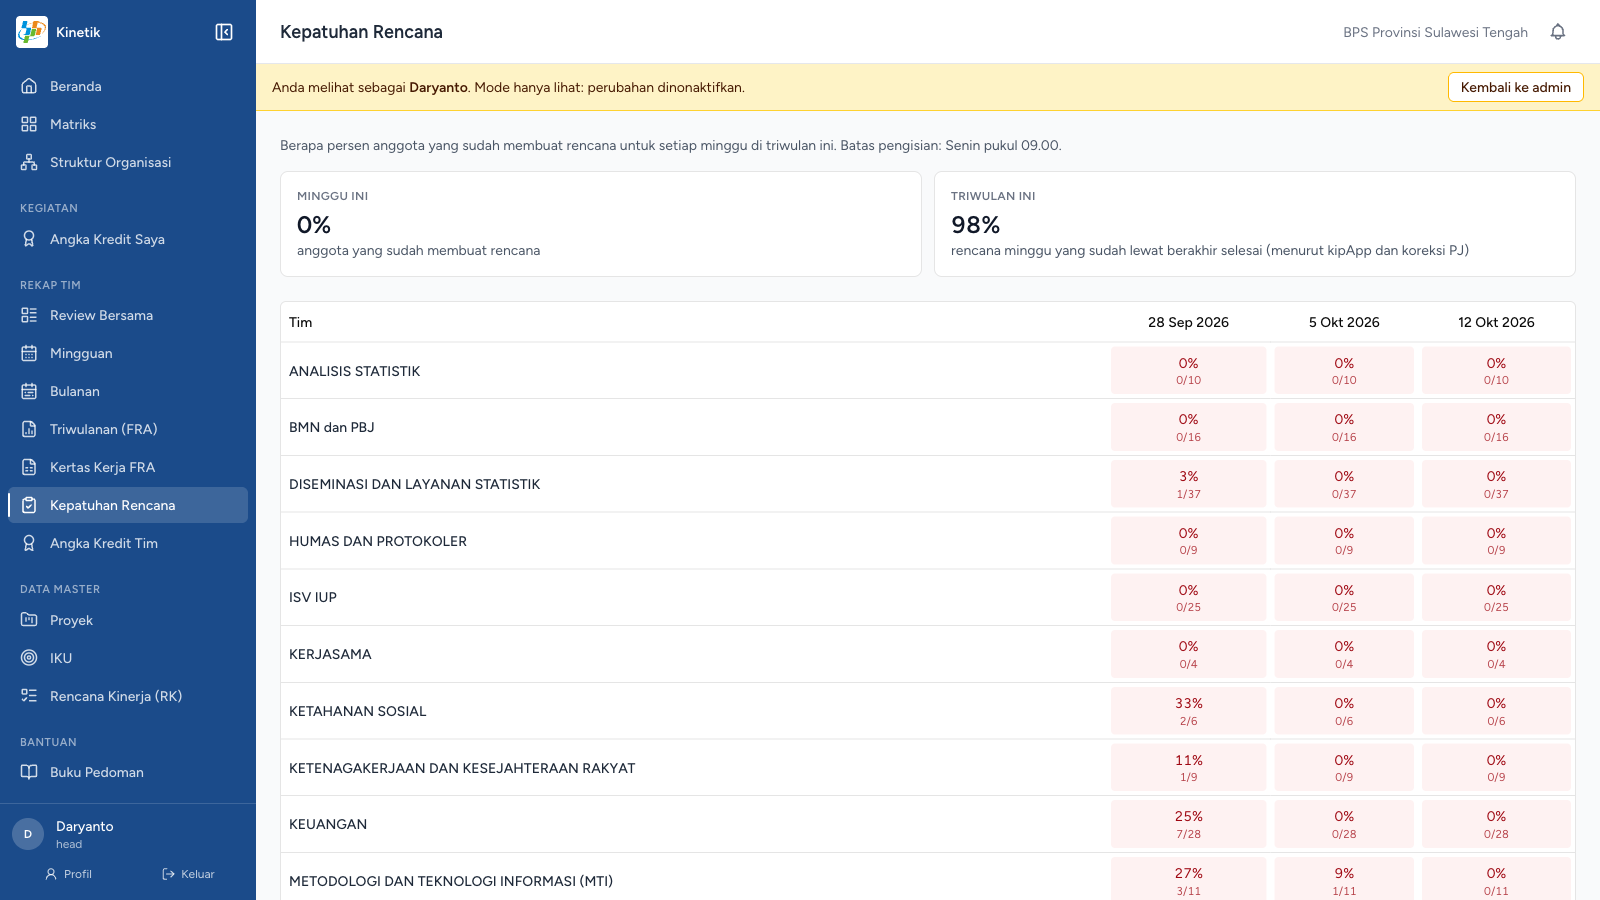
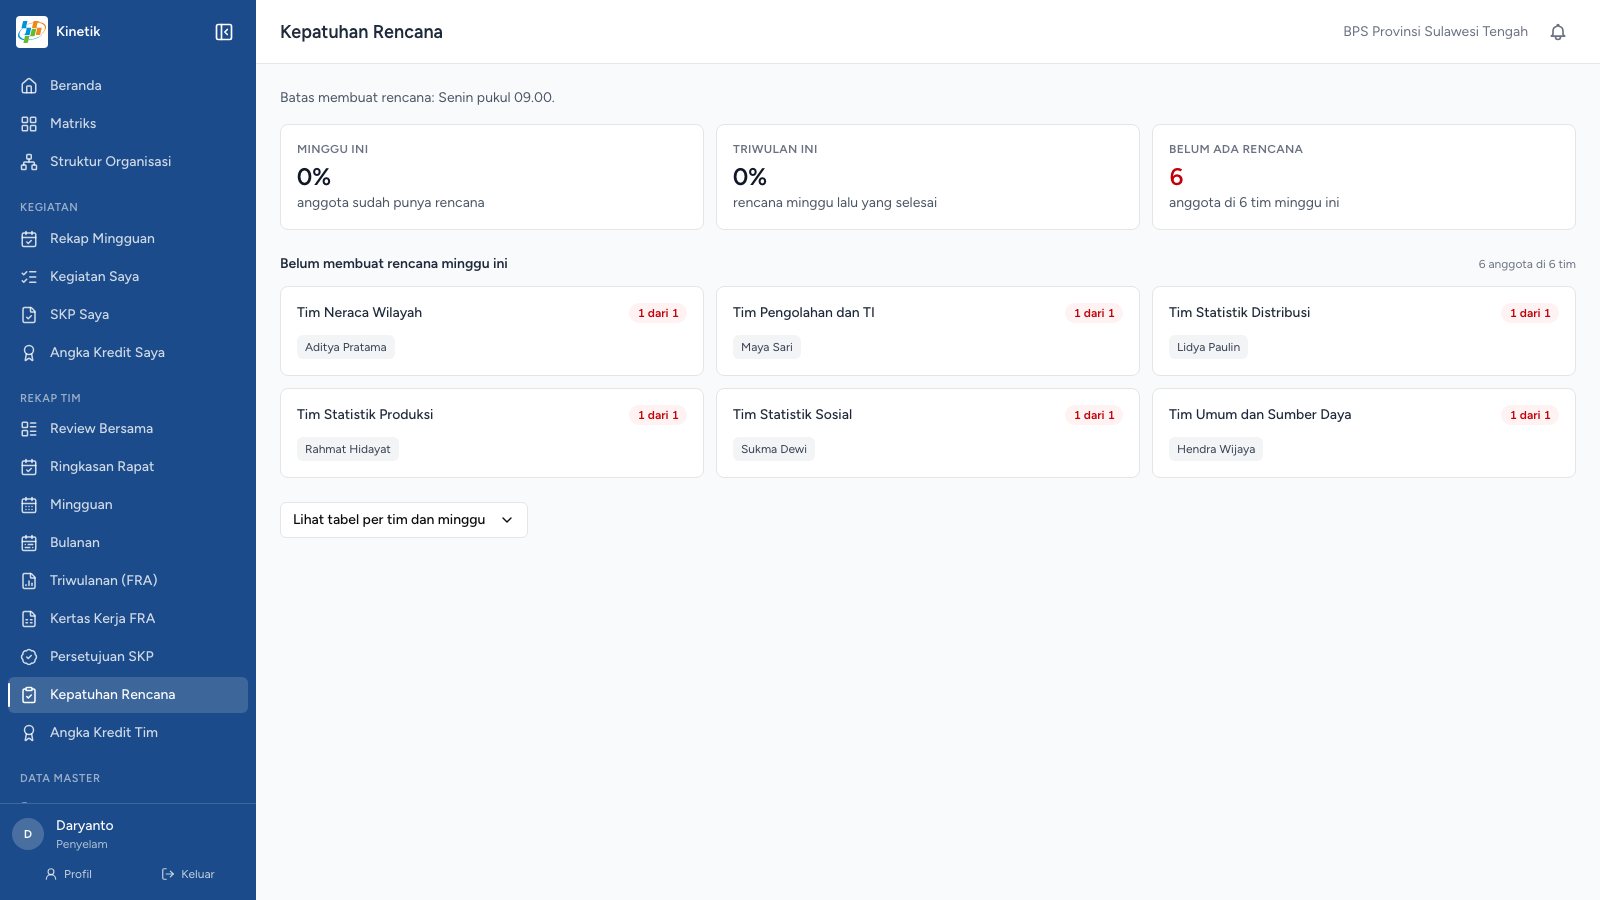
Deck: Review Bersama redesign, ringkasan rapat, Kepatuhan Rencana summary first

diff --git a/components/shotData.ts b/components/shotData.ts
@@ -120,31 +120,31 @@ export const shots: Record<string, ShotDef> = {
     },
     "head-compliance": {
         "src": "/shots/head-compliance.png",
+        "url": "kinetik.bpssulteng.id (contoh data)",
         "steps": [
-            {
-                "n": 1,
-                "x": 16,
-                "y": 16.2,
-                "text": "Batas pengisian rencana: Senin pukul 09.00."
-            },
-            {
-                "n": 2,
-                "x": 17.2,
-                "y": 25,
-                "text": "Minggu ini: berapa persen anggota yang sudah membuat rencana."
-            },
-            {
-                "n": 3,
-                "x": 58,
-                "y": 25,
-                "text": "Triwulan ini: berapa persen rencana minggu lalu yang berakhir selesai."
-            },
-            {
-                "n": 4,
-                "x": 68.5,
-                "y": 52.5,
-                "text": "Tiap tim, tiap minggu. Merah artinya belum ada rencana."
-            }
+            {"n": 1, "x": 30.6, "y": 19.4, "text": "Ringkasan dulu: rencana minggu ini, rencana triwulan, dan jumlah yang belum punya rencana."},
+            {"n": 2, "x": 25, "y": 29.2, "text": "Nama anggota yang belum membuat rencana, per tim."},
+            {"n": 3, "x": 25.2, "y": 57.8, "text": "Tabel lengkap per tim dan minggu tersembunyi sampai tombol ini ditekan."}
+        ]
+    },
+    "review-bersama": {
+        "src": "/shots/review-bersama.png",
+        "url": "kinetik.bpssulteng.id (contoh data)",
+        "steps": [
+            {"n": 1, "x": 26.6, "y": 17.9, "text": "Mingguan, bulanan, atau triwulanan, dengan panah untuk pindah periode."},
+            {"n": 2, "x": 18.8, "y": 27.8, "text": "Ringkasan kantor dalam satu deret angka."},
+            {"n": 3, "x": 43.4, "y": 41.4, "text": "Klik Capaian untuk mengurutkan dari tertinggi atau terendah."},
+            {"n": 4, "x": 85.5, "y": 46.4, "text": "Status capaian. Gembok berarti rekap sudah dikunci PJ."}
+        ]
+    },
+    "ringkasan-rapat": {
+        "src": "/shots/ringkasan-rapat.png",
+        "url": "kinetik.bpssulteng.id (contoh data)",
+        "steps": [
+            {"n": 1, "x": 31.3, "y": 21.1, "text": "Rekap mingguan terkunci, rekap bulanan terkunci, dan tim yang punya bukti rapat."},
+            {"n": 2, "x": 51.9, "y": 33.1, "text": "Terkunci: PJ sudah menyelesaikan rekap. Angka kecil adalah jumlah bukti rapat."},
+            {"n": 3, "x": 62.1, "y": 33.2, "text": "Ditulis: ada parafrase tetapi belum dikunci."},
+            {"n": 4, "x": 93, "y": 33.2, "text": "Rapat bulanan tiap tim."}
         ]
     },
     "head-overview": {

diff --git a/pages/23-pimpinan-1-4-kepatuhan-rencana.md b/pages/23-pimpinan-1-4-kepatuhan-rencana.md
@@ -1,13 +1,12 @@
-# Pimpinan (1/4): Kepatuhan Rencana
+# Pimpinan: Kepatuhan Rencana
 
-<span v-click="1"></span><span v-click="2"></span><span v-click="3"></span><span v-click="4"></span>
+<span v-click="1"></span><span v-click="2"></span><span v-click="3"></span>
 
 <Shot id="head-compliance" :clicks="$clicks" />
 
 <!--
-Sekarang sisi pimpinan. Ini Kepatuhan Rencana, dengan data semua tim.
-[click] Pertama, aturannya jelas: batas pengisian rencana adalah Senin pukul sembilan pagi.
-[click] Kedua, kartu Minggu ini menunjukkan berapa persen anggota yang sudah membuat rencana. Saat ini masih nol, karena belum ada tim yang memakai ritual ini.
-[click] Ketiga, kartu Triwulan ini menunjukkan berapa persen rencana minggu lalu yang berakhir selesai.
-[click] Keempat, tabel per tim per minggu. Warna merah artinya belum ada rencana. Dari sini pimpinan tahu tim mana yang perlu diingatkan.
+Sekarang sisi pimpinan. Kepatuhan Rencana sekarang membuka dengan ringkasan dulu, baru tabel. Datanya contoh dan masih nol karena belum ada isian pada contoh ini.
+[click] Tiga angka di atas: berapa persen anggota yang sudah membuat rencana minggu ini, berapa persen rencana minggu lalu yang selesai, dan berapa anggota yang belum punya rencana. Batas membuat rencana adalah Senin pukul sembilan pagi.
+[click] Di bawahnya nama anggota yang belum membuat rencana, per tim. Dari sini pimpinan langsung tahu siapa yang perlu diingatkan.
+[click] Tabel per tim per minggu tidak ditampilkan dulu. Tombol ini membukanya, dengan warna merah untuk minggu yang belum ada rencana.
 -->

diff --git a/pages/24a-pimpinan-review-bersama.md b/pages/24a-pimpinan-review-bersama.md
@@ -1,0 +1,13 @@
+# Pimpinan: Review Bersama
+
+<span v-click="1"></span><span v-click="2"></span><span v-click="3"></span><span v-click="4"></span>
+
+<Shot id="review-bersama" :clicks="$clicks" />
+
+<!--
+Review Bersama sudah disederhanakan: lebih sedikit tulisan, ringkasan dalam satu deret angka, dan tabel yang bisa diurutkan. PJ juga punya halaman yang sama untuk tim yang ia ikuti. Datanya contoh.
+[click] Pilih mingguan, bulanan, atau triwulanan, lalu pindah periode dengan panah.
+[click] Ringkasan kantor: tim yang punya rekap, rata-rata capaian, rekap yang dikunci PJ, dan baris yang dikonfirmasi.
+[click] Klik judul kolom Capaian untuk mengurutkan: tertinggi dulu, terendah dulu, atau urutan awal. Tim tanpa data selalu di bawah.
+[click] Status capaian tiap tim, dan gembok bila PJ sudah mengunci rekapnya. Catatan Pimpinan sudah dihapus dari halaman ini.
+-->

diff --git a/pages/24b-pimpinan-ringkasan-rapat.md b/pages/24b-pimpinan-ringkasan-rapat.md
@@ -1,0 +1,13 @@
+# Pimpinan: ringkasan rapat tim
+
+<span v-click="1"></span><span v-click="2"></span><span v-click="3"></span><span v-click="4"></span>
+
+<Shot id="ringkasan-rapat" :clicks="$clicks" />
+
+<!--
+Halaman baru untuk melihat rapat mingguan dan bulanan tiap tim dalam satu layar. Datanya contoh.
+[click] Tiga angka merangkum bulan itu: rekap mingguan terkunci, rekap bulanan terkunci, dan tim yang melampirkan bukti rapat.
+[click] Tiap kolom satu minggu. Terkunci berarti PJ sudah menyelesaikan rekap minggu itu, dan angka kecil di sampingnya adalah bukti rapat yang dilampirkan.
+[click] Ditulis berarti sudah ada parafrase tetapi belum dikunci. Belum berarti belum ada apa-apa. Minggu yang belum terjadi dibiarkan kosong.
+[click] Kolom terakhir adalah rapat bulanan tim itu. Klik satu status untuk membuka rekap timnya.
+-->

diff --git a/slides.md b/slides.md
@@ -117,6 +117,14 @@ src: ./pages/24-pimpinan-2-4-perlu-perhatian.md
 ---
 
 ---
+src: ./pages/24a-pimpinan-review-bersama.md
+---
+
+---
+src: ./pages/24b-pimpinan-ringkasan-rapat.md
+---
+
+---
 src: ./pages/25-pimpinan-3-4-angka-kredit-tim.md
 ---
 

diff --git a/pages/25-pimpinan-3-4-angka-kredit-tim.md b/pages/25-pimpinan-3-4-angka-kredit-tim.md
@@ -1,4 +1,4 @@
-# Pimpinan (3/4): Angka Kredit Tim
+# Pimpinan: Angka Kredit Tim
 
 <span v-click="1"></span><span v-click="2"></span><span v-click="3"></span><span v-click="4"></span>
 

diff --git a/pages/26-pimpinan-4-4-kertas-kerja-fra.md b/pages/26-pimpinan-4-4-kertas-kerja-fra.md
@@ -1,4 +1,4 @@
-# Pimpinan (4/4): Kertas Kerja FRA
+# Pimpinan: Kertas Kerja FRA
 
 <span v-click="1"></span><span v-click="2"></span><span v-click="3"></span><span v-click="4"></span>
 

diff --git a/pages/24-pimpinan-2-4-perlu-perhatian.md b/pages/24-pimpinan-2-4-perlu-perhatian.md
@@ -1,4 +1,4 @@
-# Pimpinan (2/4): Perlu perhatian
+# Pimpinan: Perlu perhatian
 
 <span v-click="1"></span><span v-click="2"></span><span v-click="3"></span><span v-click="4"></span>
 
